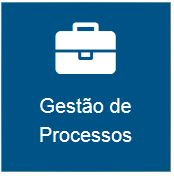
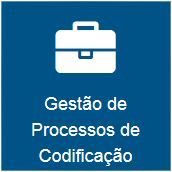
Joana

diff --git a/SIMH_Manual_Utilizador/Indice.html b/SIMH_Manual_Utilizador/Indice.html
@@ -117,16 +117,16 @@
 					<div>11 - Gestão de Processos</div>
 					<ul>
 						<li>
-							<a href="#gestaoProcessosCod">11 - Gestão de Processos</a>
+							<a href="#gestaoProcessosCod">11 - Gestão de Processos de Codificação</a>
 						</li>
 						<li>
-							<a href="#criarGestaoProcessosCod">11.1 - Criar um Novo Processo</a>
+							<a href="#criarGestaoProcessosCod">11.1 - Criar um Novo Processo de Codificação</a>
 						</li>
 						<li>
-							<a href="#editarGestaoProcessosCod">11.2 - Editar um Processo</a>
+							<a href="#editarGestaoProcessosCod">11.2 - Editar um Processo de Codificação</a>
 						</li>
 						<li>
-							<a href="#consultarGestaoProcessosCod">11.3 - Consultar de Processos</a>
+							<a href="#consultarGestaoProcessosCod">11.3 - Consultar de Processos de Codificação</a>
 						</li>
 					</ul>
 				</li>
